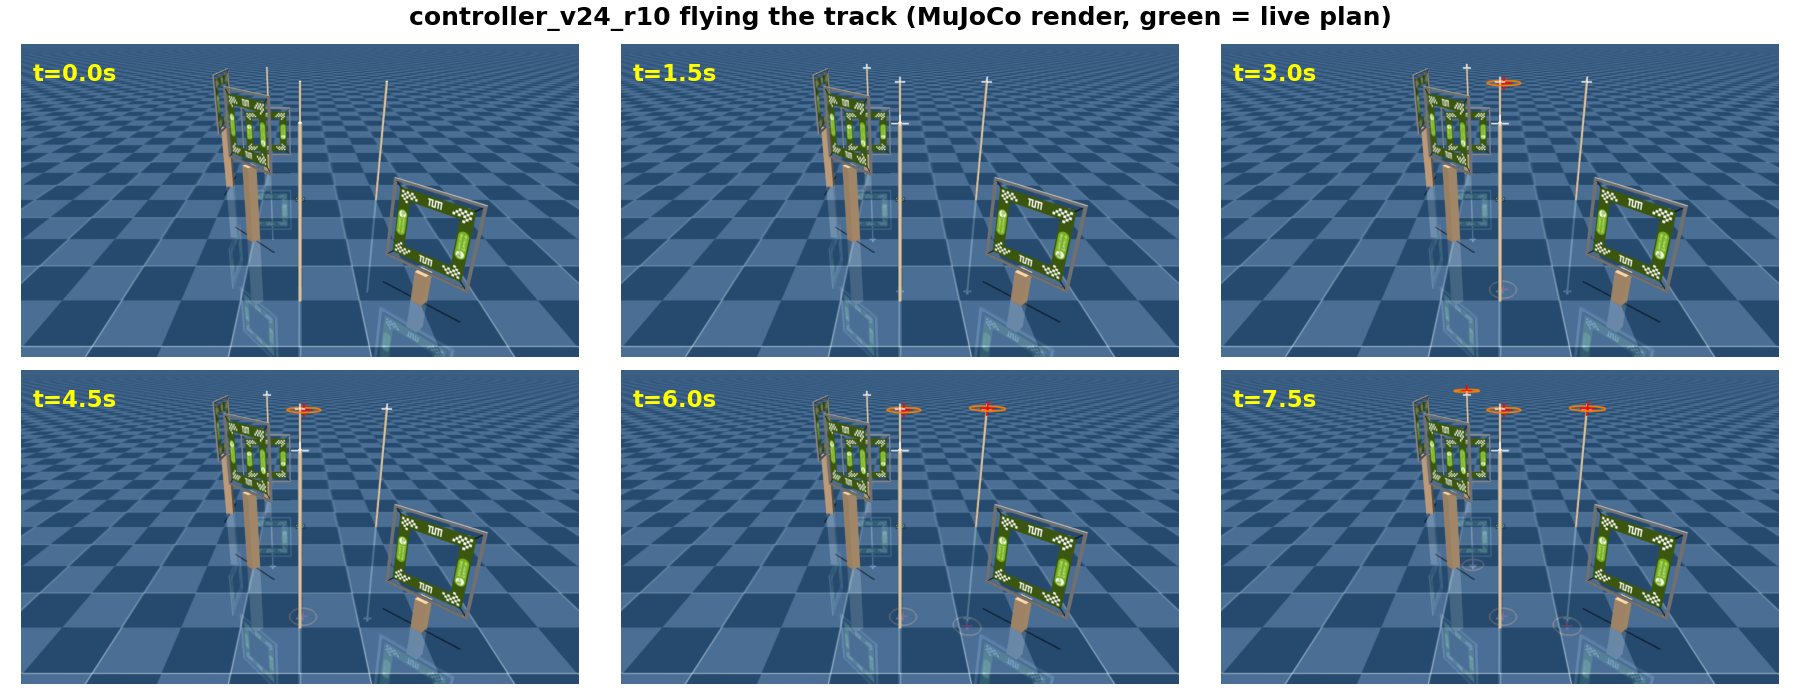
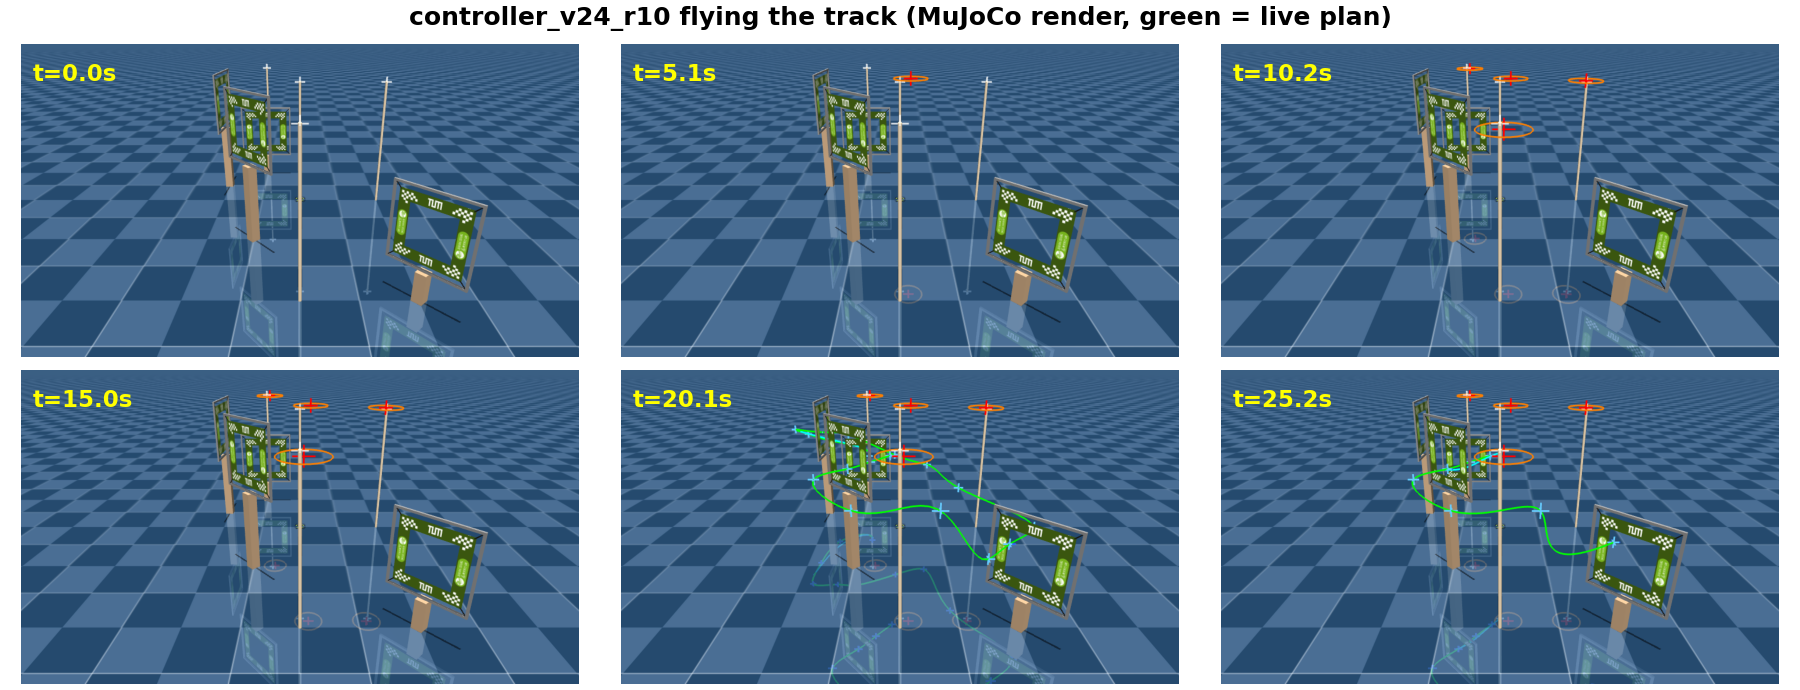
Update flight report script to enhance episode handling and add attempts parameter; update figures for report generation

diff --git a/scripts/flight_report.py b/scripts/flight_report.py
@@ -40,34 +40,15 @@ logger = logging.getLogger(__name__)
 CMAP = "turbo"  # dark-blue slow -> red fast, like the v27 figures
 
 
-def _fly(config, controller_file, n_montage: int, mont_w: int, mont_h: int):
-    """Run one episode, return the logged trajectory, gate crossings and montage frames."""
-    root = Path(__file__).parents[1]
-    controller_cls = load_controller(root / "lsy_drone_racing/control" / controller_file)
-    env = gymnasium.make(
-        config.env.id,
-        freq=config.env.freq,
-        sim_config=config.sim,
-        sensor_range=config.env.sensor_range,
-        control_mode=config.env.control_mode,
-        track=config.env.track,
-        disturbances=config.env.get("disturbances"),
-        randomizations=config.env.get("randomizations"),
-        seed=config.env.seed,
-    )
-    env = JaxToNumpy(env)
-    obs, info = env.reset()
+def _episode(env, ctrl, info, obs, freq, mont_w, mont_h):
+    """Fly one episode; return (traj-without-montage-subsampling, all frames)."""
     u = env.unwrapped
-    gates = np.asarray(u.data.gates_pos[0])  # (n, 3) ground-truth poses
+    gates = np.asarray(u.data.gates_pos[0])  # (n, 3) ground-truth poses (jitter is per-reset)
     obstacles = np.asarray(u.data.obstacles_pos[0])  # (n, 3)
-    ctrl = controller_cls(obs, info, config)
-
-    ts, pos, spd = [], [], []
-    crossings = {}  # gate index -> (time, velocity) at the moment it is passed
-    frames = []  # (time, rgb) sampled for the montage
-    freq = config.env.freq
-    prev_target = int(obs["target_gate"])
     n_gates = gates.shape[0]
+    ts, pos, spd, frames = [], [], [], []
+    crossings = {}  # gate index -> (time, velocity) at the moment it is passed
+    prev_target = int(obs["target_gate"])
 
     i = 0
     while True:
@@ -97,16 +78,46 @@ def _fly(config, controller_file, n_montage: int, mont_w: int, mont_h: int):
             break
         i += 1
 
-    env.close()
     ts, pos, spd = np.array(ts), np.array(pos), np.array(spd)
     valid = pos[:, 2] > -0.05  # drop the terminal sentinel obs (pos = [-1, -1, -1])
     ts, pos, spd = ts[valid], pos[valid], spd[valid]
-    traj = dict(
-        t=ts, pos=pos, spd=spd,
-        gates=gates, obstacles=obstacles, crossings=crossings,
-        lap=ts[-1], finished=len(crossings) == n_gates,
+    traj = dict(t=ts, pos=pos, spd=spd, gates=gates, obstacles=obstacles,
+                crossings=crossings, lap=ts[-1], finished=len(crossings) == n_gates)
+    return traj, frames
+
+
+def _fly(config, controller_file, n_montage: int, mont_w: int, mont_h: int, attempts: int):
+    """Fly up to `attempts` episodes; keep the first that finishes (search controllers
+    fail some seed-sequence draws, so a single shot can land on a bad one)."""
+    root = Path(__file__).parents[1]
+    controller_cls = load_controller(root / "lsy_drone_racing/control" / controller_file)
+    env = gymnasium.make(
+        config.env.id,
+        freq=config.env.freq,
+        sim_config=config.sim,
+        sensor_range=config.env.sensor_range,
+        control_mode=config.env.control_mode,
+        track=config.env.track,
+        disturbances=config.env.get("disturbances"),
+        randomizations=config.env.get("randomizations"),
+        seed=config.env.seed,
     )
-    # Pick n_montage evenly spaced frames.
+    env = JaxToNumpy(env)
+    freq = config.env.freq
+    obs, info = env.reset()
+
+    traj = frames = None
+    for attempt in range(attempts):
+        if attempt > 0:  # advance the seed sequence exactly like a multi-run eval
+            obs, info = env.reset()
+        ctrl = controller_cls(obs, info, config)  # fresh instance per run, like scripts/sim.py
+        traj, frames = _episode(env, ctrl, info, obs, freq, mont_w, mont_h)
+        ctrl.episode_callback()
+        traj["attempt"] = attempt + 1
+        if traj["finished"]:
+            break
+
+    env.close()
     idx = np.linspace(0, len(frames) - 1, n_montage).round().astype(int)
     traj["montage"] = [frames[k] for k in idx]
     return traj
@@ -251,8 +262,9 @@ def report(
     montage_frames: int = 6,
     montage_width: int = 960,
     montage_height: int = 540,
+    attempts: int = 8,
 ) -> str:
-    """Fly one episode and write the four flight-report figures.
+    """Fly and write the four flight-report figures.
 
     Args:
         config: Config file in config/ (track, seed, physics).
@@ -261,12 +273,14 @@ def report(
         montage_frames: Number of MuJoCo snapshots in the montage.
         montage_width: Montage render width in pixels.
         montage_height: Montage render height in pixels.
+        attempts: Max episodes to fly, keeping the first that finishes. Set to 1 to
+            plot the raw first run (search controllers fail some seed-sequence draws).
 
     Returns:
         The output directory path.
     """
     cfg = load_config(Path(__file__).parents[1] / "config" / config)
-    traj = _fly(cfg, controller, montage_frames, montage_width, montage_height)
+    traj = _fly(cfg, controller, montage_frames, montage_width, montage_height, attempts)
     out_dir = Path(__file__).parents[1] / out
     out_dir.mkdir(parents=True, exist_ok=True)
 
@@ -286,8 +300,8 @@ def report(
     _plot_montage(traj, f"{name} flying the track (MuJoCo render, green = live plan)",
                   out_dir / "fig_montage.png")
 
-    logger.info("Wrote 4 figures to %s (lap %.2fs, %s, peak %.2f m/s)",
-                out_dir, lap, end, peak)
+    logger.info("Wrote 4 figures to %s (lap %.2fs, %s, peak %.2f m/s, attempt %d)",
+                out_dir, lap, end, peak, traj.get("attempt", 1))
     return str(out_dir)
 
 
